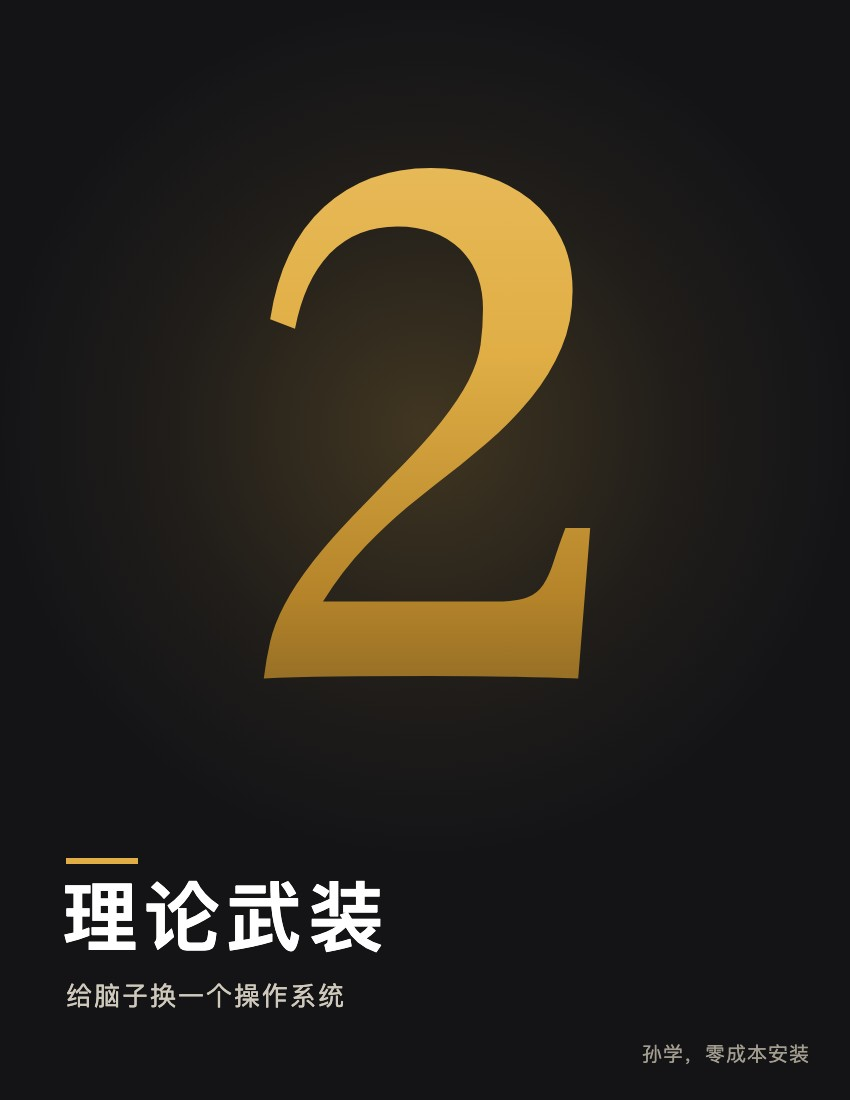
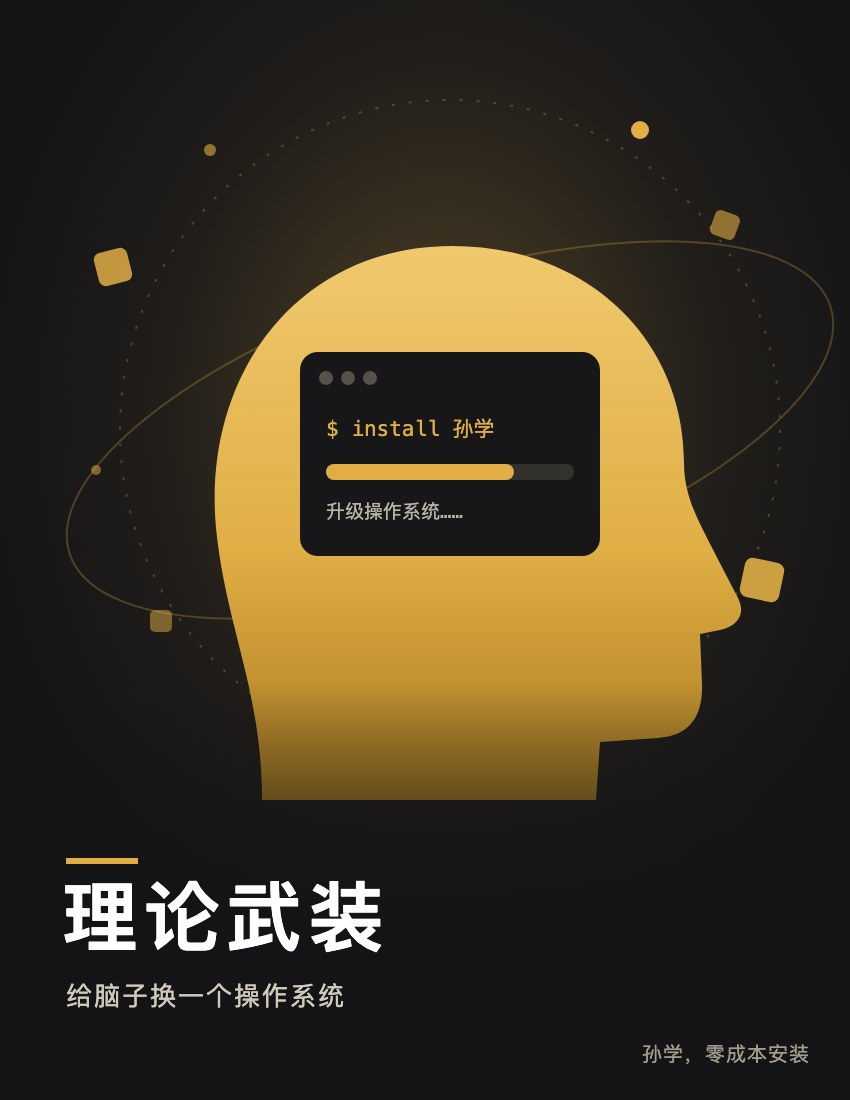
章封面换成插画，首页两张效果图换成动图

diff --git a/README.md b/README.md
@@ -17,8 +17,8 @@
 </p>
 
 <p align="center">
-  <a href="第1章/生活AI化.md"><picture><source media="(prefers-color-scheme: dark)" srcset="assets/demo1_dark.png"><img src="assets/demo1.png" width="395" alt="生活 AI 化示例"></picture></a>
-  <a href="第1章/百分之百相信AI.md"><picture><source media="(prefers-color-scheme: dark)" srcset="assets/demo2_dark.png"><img src="assets/demo2.png" width="395" alt="多模型对比示例"></picture></a>
+  <a href="第1章/生活AI化.md"><picture><source media="(prefers-color-scheme: dark)" srcset="assets/demo1_dark.gif"><img src="assets/demo1.gif" width="395" alt="生活 AI 化示例，按一次真实运行的记录重排的动图"></picture></a>
+  <a href="第1章/百分之百相信AI.md"><picture><source media="(prefers-color-scheme: dark)" srcset="assets/demo2_dark.gif"><img src="assets/demo2.gif" width="395" alt="多模型对比示例，三份回答是真问来的"></picture></a>
 </p>
 
 <p align="center">
